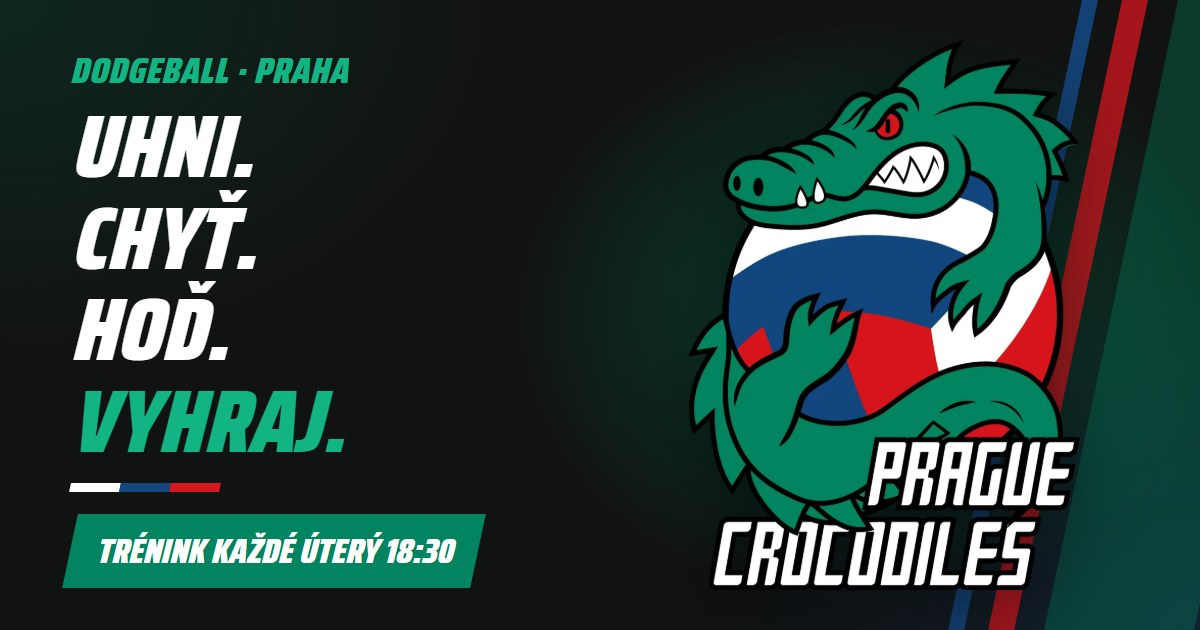
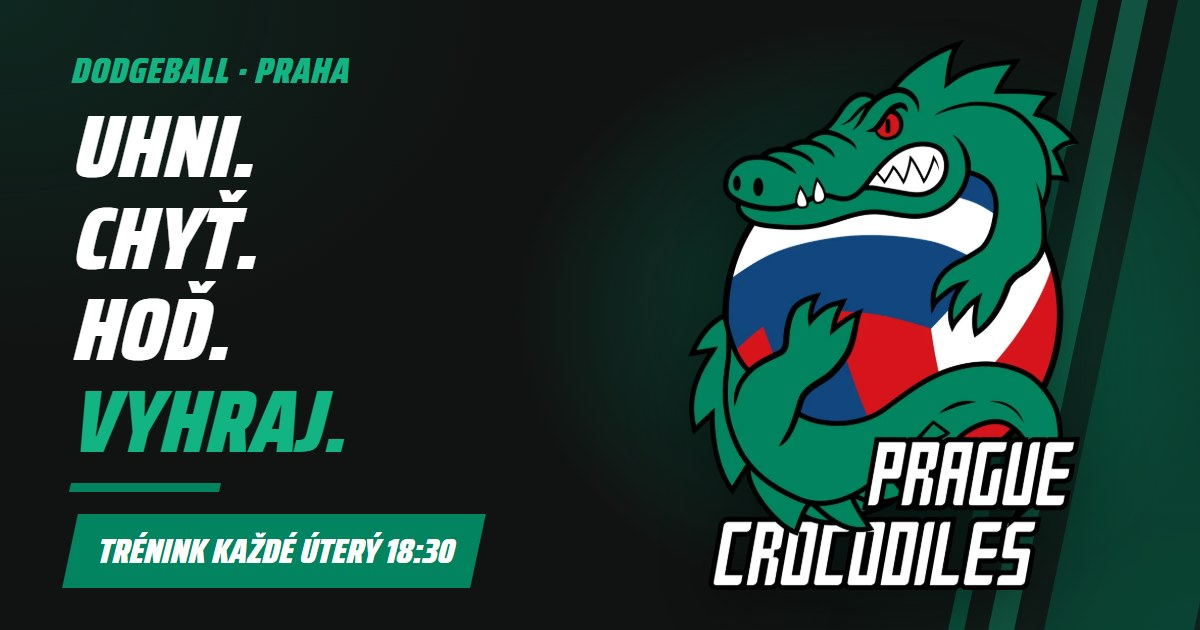
Make croc green the only accent colour
Heading slashes, icon boxes, hero stripes, the headline bar, the
footer strip, training icons and the share image now use green
shades (new croc-dark token). Red/white/blue stay only on the 3D
balls and the Czech flag on the national team card, so no
white-blue-red bars read as the Russian flag.

diff --git a/src/components/Hero.jsx b/src/components/Hero.jsx
@@ -61,9 +61,9 @@ export default function Hero() {
       {/* decorative stripes */}
       <div aria-hidden="true" className="pointer-events-none absolute inset-0">
         <div className="absolute -right-24 top-0 h-full w-40 -skew-x-12 bg-croc/20 sm:w-56" />
-        <div className="absolute right-24 top-0 h-full w-10 -skew-x-12 bg-flag-red/40 sm:right-40" />
-        <div className="absolute right-40 top-0 h-full w-6 -skew-x-12 bg-flag-blue/50 sm:right-60" />
-        <div className="absolute -left-32 bottom-0 h-1/2 w-64 -skew-x-12 bg-flag-blue/15" />
+        <div className="absolute right-24 top-0 h-full w-10 -skew-x-12 bg-croc-light/25 sm:right-40" />
+        <div className="absolute right-40 top-0 h-full w-6 -skew-x-12 bg-croc-dark/60 sm:right-60" />
+        <div className="absolute -left-32 bottom-0 h-1/2 w-64 -skew-x-12 bg-croc/10" />
       </div>
 
       <Suspense fallback={null}>
@@ -99,11 +99,7 @@ export default function Hero() {
             <br />
             <span className="text-croc-light">Vyhraj.</span>
           </h1>
-          <div aria-hidden="true" className="mt-5 flex h-1.5 w-32 -skew-x-12 overflow-hidden">
-            <span className="flex-1 bg-white" />
-            <span className="flex-1 bg-flag-blue" />
-            <span className="flex-1 bg-flag-red" />
-          </div>
+          <div aria-hidden="true" className="mt-5 h-1.5 w-32 -skew-x-12 bg-croc" />
           <p className="mt-6 max-w-md text-lg text-white/80">{team.tagline}</p>
           <div className="mt-8 flex flex-wrap gap-4">
             <a

diff --git a/src/components/About.jsx b/src/components/About.jsx
@@ -2,7 +2,7 @@ import { FaUserGroup, FaCalendarDays, FaFlag, FaInstagram } from "react-icons/fa
 import { team, council } from "../content.js";
 import Reveal from "./Reveal.jsx";
 
-const tints = ["bg-croc", "bg-flag-blue", "bg-flag-red", "bg-croc"];
+const tints = ["bg-croc", "bg-croc-dark", "bg-croc", "bg-croc-dark"];
 const initials = (name) =>
   name
     .split(/\s+/)
@@ -12,8 +12,8 @@ const initials = (name) =>
 
 const highlights = [
   { icon: FaUserGroup, title: "Vítáme všechny úrovně", color: "bg-croc" },
-  { icon: FaCalendarDays, title: "Každé úterý", color: "bg-flag-blue" },
-  { icon: FaFlag, title: "Hráči v reprezentaci", color: "bg-flag-red" },
+  { icon: FaCalendarDays, title: "Každé úterý", color: "bg-croc-dark" },
+  { icon: FaFlag, title: "Hráči v reprezentaci", color: "bg-croc" },
 ];
 
 export default function About() {
@@ -22,7 +22,7 @@ export default function About() {
       <div className="mx-auto max-w-6xl px-4 sm:px-6">
         <Reveal>
           <h2 className="font-display text-6xl sm:text-7xl">
-            Kdo jsme<span className="text-flag-red">/</span>
+            Kdo jsme<span className="text-croc-light">/</span>
           </h2>
           <div className="mt-3 h-1.5 w-24 -skew-x-12 bg-croc" aria-hidden="true" />
         </Reveal>

diff --git a/src/components/Training.jsx b/src/components/Training.jsx
@@ -8,7 +8,7 @@ export default function Training() {
       <div className="mx-auto max-w-6xl px-4 sm:px-6">
         <Reveal>
           <h2 className="font-display text-6xl sm:text-7xl">
-            Tréninky<span className="text-flag-red">/</span>
+            Tréninky<span className="text-croc-light">/</span>
           </h2>
           <div className="mt-3 h-1.5 w-24 -skew-x-12 bg-croc" aria-hidden="true" />
         </Reveal>
@@ -23,11 +23,11 @@ export default function Training() {
               <div>
                 <h3 className="font-display text-5xl text-croc-light md:text-7xl">{t.day}</h3>
                 <p className="mt-3 flex items-center gap-2 text-lg font-semibold md:text-xl">
-                  <FaClock aria-hidden="true" className="text-flag-red" />
+                  <FaClock aria-hidden="true" className="text-croc-light" />
                   {t.time}
                 </p>
                 <p className="mt-1 flex items-center gap-2 text-white/80 md:text-lg">
-                  <FaLocationDot aria-hidden="true" className="shrink-0 text-flag-red" />
+                  <FaLocationDot aria-hidden="true" className="shrink-0 text-croc-light" />
                   {t.venue}
                 </p>
                 <a

diff --git a/src/components/FirstTime.jsx b/src/components/FirstTime.jsx
@@ -3,7 +3,7 @@ import { firstTime } from "../content.js";
 import Reveal from "./Reveal.jsx";
 
 const icons = { gift: FaGift, bag: FaBagShopping, shield: FaShieldHalved, coins: FaCoins };
-const tints = ["bg-croc", "bg-flag-blue", "bg-flag-red", "bg-croc"];
+const tints = ["bg-croc", "bg-croc-dark", "bg-croc", "bg-croc-dark"];
 
 export default function FirstTime() {
   return (
@@ -11,7 +11,7 @@ export default function FirstTime() {
       <div className="mx-auto max-w-6xl px-4 sm:px-6">
         <Reveal>
           <h2 className="font-display text-6xl sm:text-7xl">
-            Jdeš poprvé?<span className="text-flag-red">/</span>
+            Jdeš poprvé?<span className="text-croc-light">/</span>
           </h2>
           <div className="mt-3 h-1.5 w-24 -skew-x-12 bg-croc" aria-hidden="true" />
         </Reveal>

diff --git a/src/components/Rules.jsx b/src/components/Rules.jsx
@@ -1,7 +1,7 @@
 import { rules } from "../content.js";
 import Reveal from "./Reveal.jsx";
 
-const accents = ["text-flag-red", "text-croc-light", "text-white", "text-croc-light"];
+const accents = ["text-croc-light", "text-white", "text-croc-light", "text-white"];
 
 export default function Rules() {
   return (
@@ -9,7 +9,7 @@ export default function Rules() {
       <div className="mx-auto max-w-6xl px-4 sm:px-6">
         <Reveal>
           <h2 className="font-display text-6xl sm:text-7xl">
-            Co je dodgeball?<span className="text-flag-red">/</span>
+            Co je dodgeball?<span className="text-croc-light">/</span>
           </h2>
           <div className="mt-3 h-1.5 w-24 -skew-x-12 bg-croc" aria-hidden="true" />
         </Reveal>

diff --git a/src/index.css b/src/index.css
@@ -3,6 +3,7 @@
 @theme {
   --color-croc: #01845f;
   --color-croc-light: #12b484;
+  --color-croc-dark: #0a5c45;
   --color-flag-blue: #14467f;
   --color-flag-red: #d7161d;
   --color-ink: #111312;
@@ -20,7 +21,7 @@ body {
   background-color: var(--color-ink);
   background-image:
     radial-gradient(60rem 40rem at 0% 0%, rgba(1, 132, 95, 0.12), transparent 70%),
-    radial-gradient(60rem 40rem at 100% 100%, rgba(20, 70, 127, 0.14), transparent 70%);
+    radial-gradient(60rem 40rem at 100% 100%, rgba(1, 132, 95, 0.08), transparent 70%);
   background-attachment: fixed;
   color: #fff;
   font-family: var(--font-sans);

diff --git a/src/components/Footer.jsx b/src/components/Footer.jsx
@@ -20,11 +20,7 @@ const socials = [
 export default function Footer() {
   return (
     <footer className="bg-ink">
-      <div aria-hidden="true" className="flex h-1.5">
-        <span className="flex-1 bg-white" />
-        <span className="flex-1 bg-flag-blue" />
-        <span className="flex-1 bg-flag-red" />
-      </div>
+      <div aria-hidden="true" className="h-1.5 bg-croc" />
       <div className="mx-auto max-w-6xl px-4 py-10 sm:px-6">
         <div className="flex flex-col gap-8 md:flex-row md:items-center md:justify-between">
           <a href="#top" className="flex items-center gap-3">

diff --git a/src/components/Results.jsx b/src/components/Results.jsx
@@ -56,7 +56,7 @@ export default function Results() {
       <div className="mx-auto max-w-6xl px-4 sm:px-6">
         <Reveal>
           <h2 className="font-display text-6xl sm:text-7xl">
-            Výsledky<span className="text-flag-red">/</span>
+            Výsledky<span className="text-croc-light">/</span>
           </h2>
           <div className="mt-3 h-1.5 w-24 -skew-x-12 bg-croc" aria-hidden="true" />
         </Reveal>

diff --git a/src/components/Contact.jsx b/src/components/Contact.jsx
@@ -28,7 +28,7 @@ export default function Contact() {
       <div className="mx-auto max-w-6xl px-4 sm:px-6">
         <Reveal>
           <h2 className="font-display text-6xl sm:text-7xl">
-            Kontakt<span className="text-flag-red">/</span>
+            Kontakt<span className="text-croc-light">/</span>
           </h2>
           <div className="mt-3 h-1.5 w-24 -skew-x-12 bg-croc" aria-hidden="true" />
         </Reveal>
